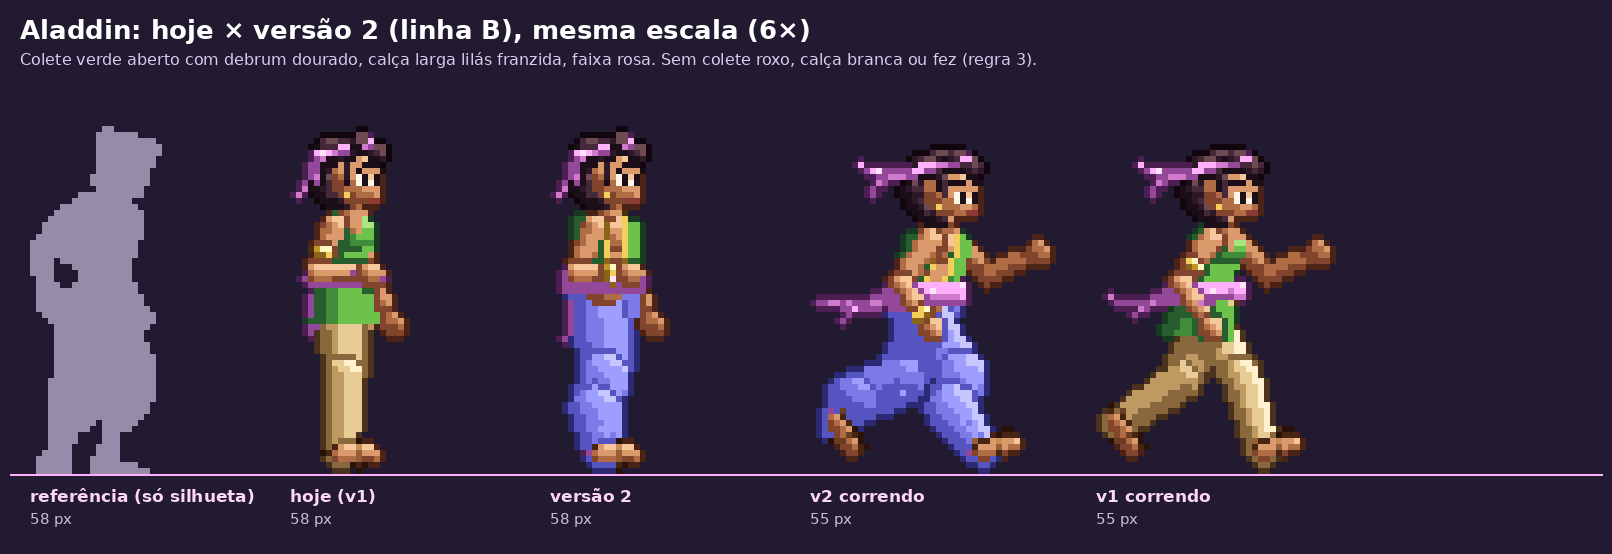
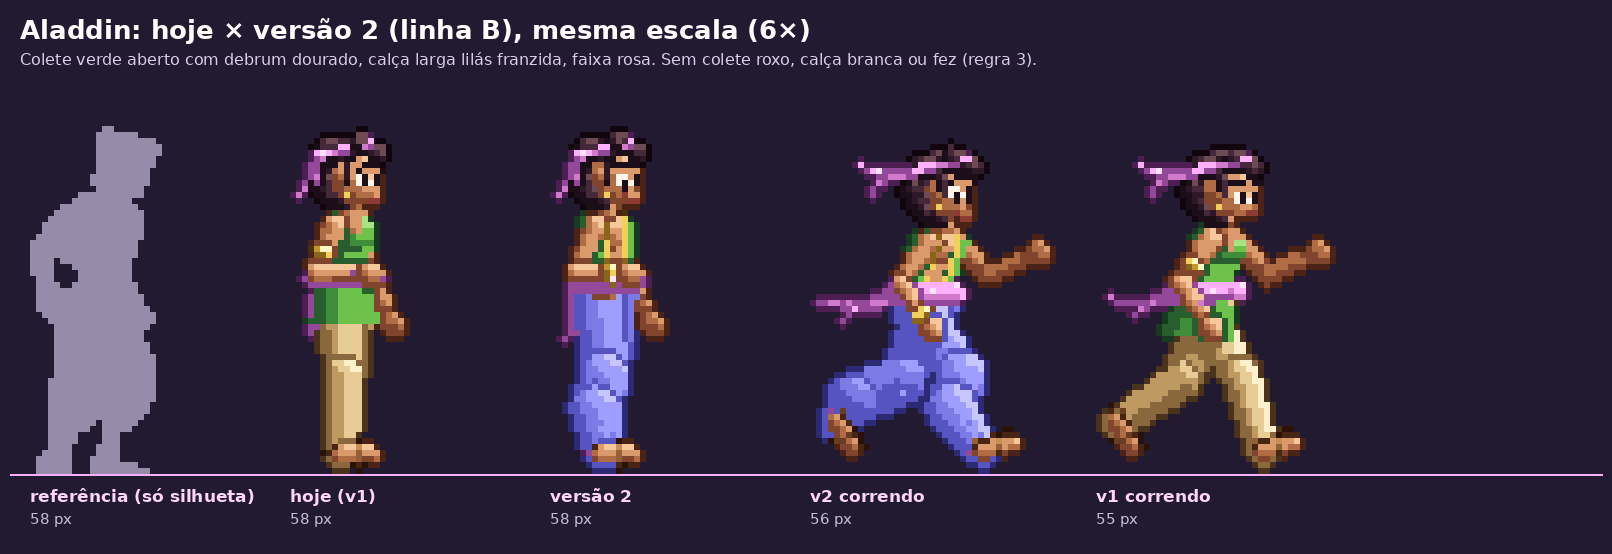
Prévia Aladdin v2: corpo mais magro e rosto novo
Tronco, cintura, braços e coxas mais finos; rosto mais fino com queixo
estreito, olhos maiores com brilho, sobrancelha marcada e sorriso de canto.
Close do rosto (12x) hoje × v2. Só prévia: src/ não foi alterado.

Claude-Session: https://claude.ai/code/session_01PQYRHCjcJDFveiPkYtVM8o

diff --git a/ferramentas/arte/previa_aladdin_v2.py b/ferramentas/arte/previa_aladdin_v2.py
@@ -55,8 +55,8 @@ def desenhar(p):
     def braco(ombro, ang, dobra, esc, mao_tipo, bracelete):
         cot = ponto(ombro, GJ.BRACO, ang)
         mao = ponto(cot, GJ.ANTEBRACO, ang + dobra)
-        b.capsula(ombro, cot, 2.0, 1.75, PELE, esc)
-        b.capsula(cot, mao, 1.75, 1.45, PELE, esc)
+        b.capsula(ombro, cot, 1.7, 1.5, PELE, esc)      # braço mais fino (corpo esguio)
+        b.capsula(cot, mao, 1.5, 1.25, PELE, esc)
         m2 = ponto(mao, 1.2, ang + dobra)
         if mao_tipo == 'punho':
             b.elipse(m2, 2.1, 2.1, PELE, esc)
@@ -70,7 +70,7 @@ def desenhar(p):
         j, t, ang_pe = GJ.junta_perna(quadril, coxa, joelho, pe_ang)
         # calça larga: coxa e canela grossas, e o pano "atrasa" (vai para trás) com o vento
         atras = ponto(mistura(j, t, 0.45), 1.2 + 2.2 * vento, -90)
-        b.capsula(quadril, j, 4.4, 4.0, CALCA, esc, achatar=0.9)
+        b.capsula(quadril, j, 4.0, 3.8, CALCA, esc, achatar=0.9)
         b.capsula(j, atras, 4.0, 4.2, CALCA, esc, achatar=0.9)
         b.capsula(atras, t, 4.2, 2.6, CALCA, esc, achatar=0.9)
         # barra franzida no tornozelo (punho rosa)
@@ -111,13 +111,13 @@ def desenhar(p):
     if p['sentado']:
         perna(quadril_t, p['coxa_t'], p['joelho_t'], p['pe_t'], 1)
     # tronco: peito à mostra (pele) e colete verde aberto por cima
-    b.capsula(peito, (hx, hy - 1.5), 4.2, 3.6, PELE, separar=False, achatar=0.92)
-    b.elipse((peito[0] + 0.4, peito[1] - 0.8), 4.4, 3.2, PELE, separar=False, achatar=0.9)
+    b.capsula(peito, (hx, hy - 1.5), 3.7, 2.9, PELE, separar=False, achatar=0.92)   # tronco esguio, cintura fina
+    b.elipse((peito[0] + 0.4, peito[1] - 0.8), 3.9, 3.0, PELE, separar=False, achatar=0.9)
     pz = pescoco
     # lado de trás do colete (mais largo, vista 3/4) e lado da frente (estreito)
-    b.poligono([(pz[0] - 5.4, pz[1] + 1.2), (pz[0] - 0.2, pz[1] + 0.8), (hx - 0.6, hy - 2.6), (hx - 5.6, hy - 2.0)],
+    b.poligono([(pz[0] - 4.8, pz[1] + 1.2), (pz[0] - 0.2, pz[1] + 0.8), (hx - 0.6, hy - 2.6), (hx - 4.4, hy - 2.0)],
                COLETE, separar=False)
-    b.poligono([(pz[0] + 2.4, pz[1] + 1.4), (pz[0] + 5.4, pz[1] + 2.6), (hx + 5.4, hy - 2.4), (hx + 3.0, hy - 3.0)],
+    b.poligono([(pz[0] + 2.4, pz[1] + 1.4), (pz[0] + 4.8, pz[1] + 2.6), (hx + 4.2, hy - 2.4), (hx + 2.6, hy - 3.0)],
                COLETE, separar=False)
     for a_, b_ in (((pz[0] - 0.2, pz[1] + 0.8), (hx - 0.6, hy - 2.6)), ((pz[0] + 2.4, pz[1] + 1.4), (hx + 3.0, hy - 3.0))):
         n = 10
@@ -127,17 +127,17 @@ def desenhar(p):
     b.capsula(pescoco, (cab[0] - 0.4, cab[1] + 2.0), 2.0, 2.0, PELE, separar=False)
     # faixa larga na cintura
     fy = hy - 2.2
-    b.capsula((hx - 5.0, fy + 0.4), (hx + 5.2, fy), 2.3, 2.3, FAIXA, separar=False, achatar=0.9)
+    b.capsula((hx - 4.4, fy + 0.4), (hx + 4.6, fy), 2.1, 2.1, FAIXA, separar=False, achatar=0.9)
     b.elipse(no, 2.0, 1.8, FAIXA, 1, separar=False)
     # cabeça (igual à de hoje: cachos, faixa rosa com pontas)
     cx, cy = cab
     for dx, dy, r in ((-3.8, -0.4, 2.7), (-4.4, 2.4, 2.4), (-3.2, 4.6, 2.0), (-1.4, -3.4, 2.5), (1.6, -3.9, 2.3),
                       (-3.8, -3.0, 2.3), (4.0, -2.8, 2.0), (-5.6, 0.8, 1.8), (-1.2, 5.4, 1.6)):
         b.elipse((cx + dx, cy + dy), r, r, CABELO, separar=False)
-    b.elipse((cx + 0.8, cy + 0.6), 4.4, 4.9, PELE, separar=False, achatar=0.65)
-    b.elipse((cx + 2.4, cy + 3.0), 2.6, 2.3, PELE, separar=False, achatar=0.6)
+    b.elipse((cx + 0.8, cy + 0.4), 4.0, 5.0, PELE, separar=False, achatar=0.65)     # rosto mais fino
+    b.elipse((cx + 2.6, cy + 3.4), 2.0, 2.1, PELE, separar=False, achatar=0.6)      # queixo estreito
     b.elipse((cx - 1.8, cy + 1.2), 1.2, 1.7, PELE, 1, separar=False, achatar=0.8)
-    for dx, dy, r in ((-0.2, -3.4, 1.9), (2.2, -3.6, 1.8), (4.2, -2.6, 1.4), (-2.4, -2.4, 1.7)):
+    for dx, dy, r in ((-0.2, -3.6, 2.1), (2.2, -3.9, 2.0), (4.2, -2.8, 1.5), (-2.4, -2.6, 1.8), (0.9, -5.0, 1.6)):
         b.elipse((cx + dx, cy + dy), r, r * 0.9, CABELO, separar=False)
     b.capsula((cx - 0.6, cy - 1.0), (cx - 0.4, cy + 1.8), 0.8, 0.6, CABELO, separar=False)
     b.capsula((cx - 4.8, cy - 2.6), (cx + 3.4, cy - 4.4), 0.8, 0.7, FAIXA, separar=False)
@@ -150,20 +150,41 @@ def desenhar(p):
         braco(ombro_f, p['ombro_f'], p['cotovelo_f'], 0, p['mao_f'], True)
     if not p['braco_t_atras']:
         braco(ombro_t, p['ombro_t'], p['cotovelo_t'], 0, p['mao_t'], False)
-    # rosto
-    if p['rosto'] == 'piscando':
-        ox1, ox2, oy = cx + 1.2, cx + 4.0, cy + 0.6
-        b.px(ox1, oy + 1, 'e'); b.px(ox1 + 1, oy + 1, 'e'); b.px(ox2, oy + 1, 'e')
-        b.px(ox1 - 0.5, oy - 1.4, 'I'); b.px(ox1 + 0.6, oy - 1.8, 'I'); b.px(ox1 + 1.6, oy - 1.8, 'I')
-        b.px(ox2, oy - 1.6, 'I'); b.px(ox2 + 1, oy - 1.4, 'I')
-        b.tom_em(cx + 5.2, cy + 2.1, PELE, 2); b.tom_em(cx + 4.4, cy + 2.9, PELE, 2)
-        b.px(cx + 3.0, cy + 4.4, 'q'); b.px(cx + 4.0, cy + 4.2, 'q')
-        b.tom_em(cx + 0.2, cy + 5.6, PELE, 3); b.tom_em(cx + 1.2, cy + 5.9, PELE, 2)
-    else:
-        GJ.rosto(b, cx, cy, p['rosto'])
+    # rosto (versão 2): olhos maiores (2x2 com brilho), sobrancelha grossa e reta, nariz marcado, sorriso de canto.
+    rosto2(b, cx, cy, p['rosto'])
     b.px(cx - 1.4, cy + 3.3, 'y')
     b.tom_em(hx + 1, fy - 1, FAIXA, 0)
     return b
+
+
+def rosto2(b, cx, cy, tipo):
+    if tipo in ('dano', 'esforco'):
+        GJ.rosto(b, cx, cy, tipo)
+        return
+    ox1, ox2, oy = cx + 0.6, cx + 3.4, cy + 0.4
+    if tipo == 'piscando':
+        b.px(ox1, oy + 1, 'e'); b.px(ox1 + 1, oy + 1, 'e'); b.px(ox2, oy + 1, 'e')
+    else:
+        # olho de perto: 2x2 (branco + pupila grande) com brilho; olho de longe: pupila e fio de branco
+        b.px(ox1, oy, 'w'); b.px(ox1, oy + 1, 'w'); b.px(ox1 + 1, oy, 'e'); b.px(ox1 + 1, oy + 1, 'e')
+        b.px(ox1 + 1, oy + 2, 'e'); b.px(ox1 + 2, oy + 1, 'e')
+        b.px(ox1 + 1, oy, 'w')                     # brilho no olho
+        b.px(ox2, oy, 'e'); b.px(ox2, oy + 1, 'e'); b.px(ox2, oy + 2, 'e'); b.px(ox2 - 1, oy + 1, 'w')
+    # sobrancelhas grossas, um pouco arqueadas (expressão confiante)
+    for x, y in ((ox1 - 0.6, oy - 1.4), (ox1 + 0.4, oy - 1.9), (ox1 + 1.4, oy - 1.9), (ox2 - 0.2, oy - 1.9),
+                 (ox2 + 0.8, oy - 1.4)):
+        b.px(x, y, 'I')
+    # nariz: ponta e sombra embaixo
+    b.tom_em(cx + 4.4, cy + 2.2, PELE, 2)
+    b.tom_em(cx + 3.8, cy + 3.0, PELE, 3)
+    # boca: sorriso de canto (sobe para o lado de trás do rosto)
+    if tipo == 'feliz':
+        b.px(cx + 1.8, cy + 4.0, 'q'); b.px(cx + 2.8, cy + 4.6, 'n'); b.px(cx + 3.8, cy + 4.2, 'q')
+    else:
+        b.px(cx + 1.8, cy + 4.0, 'q'); b.px(cx + 2.8, cy + 4.6, 'q'); b.px(cx + 3.8, cy + 4.6, 'q')
+    b.tom_em(cx + 0.4, cy + 5.4, PELE, 3)       # sombra do queixo
+    b.tom_em(cx + 1.4, cy + 6.0, PELE, 2)
+    b.tom_em(cx - 0.4, cy + 2.6, PELE, 2)       # maçã do rosto (rosto mais anguloso)
 
 
 def aterrissagem():
@@ -257,6 +278,26 @@ def main():
         d.text((x, chao + 36), f'{im.height} px', font=fonte(15), fill=(200, 190, 220))
         x += max(g.width + 40, 260)
     out.save(os.path.join(SAIDA, 'aladdin-v1-x-v2.png'))
+    # 1b. close do rosto (12x): hoje × versão 2, parado e correndo
+    k2 = 12
+    pares = [('hoje · parado', atual['parado1']), ('v2 · parado', q['parado1']), ('v2 · piscando', q['piscando']),
+             ('hoje · correndo', atual['correndo3']), ('v2 · correndo', q['correndo3'])]
+    cw, ch = 22, 20
+    out = Image.new('RGBA', (len(pares) * (cw * k2 + 24) + 24, ch * k2 + 110), (34, 26, 48, 255))
+    d = ImageDraw.Draw(out)
+    d.text((20, 12), 'Rosto: hoje × versão 2 (12×). Rosto mais fino, queixo estreito, olhos maiores com brilho, '
+           'sobrancelha marcada, sorriso de canto', font=fonte(18, True), fill='white')
+    for i, (rot, im) in enumerate(pares):
+        bb = im.getbbox()
+        topo = bb[1]
+        a_ = [x for x in range(L) if im.getpixel((x, topo + 8))[3]]
+        cx0 = (min(a_) + max(a_)) // 2 - cw // 2 if a_ else bb[0]
+        f = Image.new('RGBA', (cw, ch), FUNDO)
+        f.alpha_composite(im.crop((cx0, topo - 1, cx0 + cw, topo - 1 + ch)))
+        X = 24 + i * (cw * k2 + 24)
+        out.alpha_composite(f.resize((cw * k2, ch * k2), Image.NEAREST), (X, 50))
+        d.text((X, 58 + ch * k2), rot, font=fonte(17, True), fill=(255, 214, 251))
+    out.save(os.path.join(SAIDA, 'aladdin-rosto.png'))
     # 2. todos os quadros
     k = 4
     nomes = list(q)

diff --git a/ferramentas/arte/previas/aladdin-v2/README.md b/ferramentas/arte/previas/aladdin-v2/README.md
@@ -7,6 +7,7 @@ Só prévia: `src/` não mudou. Gerado por `python3 ferramentas/arte/previa_alad
 | Arquivo | O que é |
 |---|---|
 | `aladdin-v1-x-v2.png` | silhueta de referência (cinza, só escala) × herói de hoje × versão 2, parado e correndo (6×) |
+| `aladdin-rosto.png` | close do rosto (12×): hoje × versão 2, parado, piscando e correndo |
 | `aladdin-v2-quadros.png` | os 23 quadros da versão 2 (4×) |
 | `aladdin-v2-parado.gif`, `-corrida.gif`, `-pulo.gif`, `-arremesso.gif` | animações (4×) |
 
@@ -17,6 +18,11 @@ O que muda (mesmo esqueleto, luz, escala de 58 px e poses do herói de hoje):
   propósito para nunca ler como branca.
 - **Pano que esvoaça:** a calça "atrasa" com o vento na corrida e infla no pulo; a silhueta das pernas fica larga,
   como na referência.
+- **Mais magro (pedido do Pedro):** tronco, cintura, braços e coxas mais finos; a calça larga continua, então a
+  silhueta fica esguia em cima e solta embaixo, como na referência.
+- **Rosto novo (pedido do Pedro):** rosto mais fino e um pouco mais comprido, queixo estreito, maçã do rosto marcada,
+  olho de perto maior (2×2) com pupila e brilho, sobrancelha grossa e arqueada, sorriso de canto confiante, cabelo
+  mais cheio em cima. Traços nossos (cachos com a faixa rosa), não os do filme.
 - **Quadros novos:** piscada no parado e aterrissagem (o corpo amassa ao tocar o chão, antes de voltar ao parado).
 
 Teste da regra 3: lado a lado com o original deve dar "mesmo nível e mesmo jeito de pixel art", não "o mesmo
